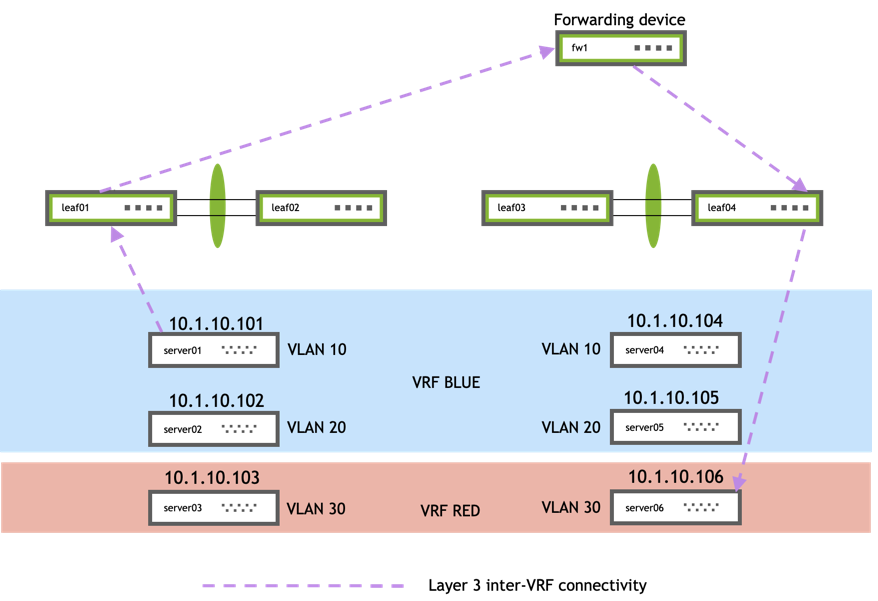
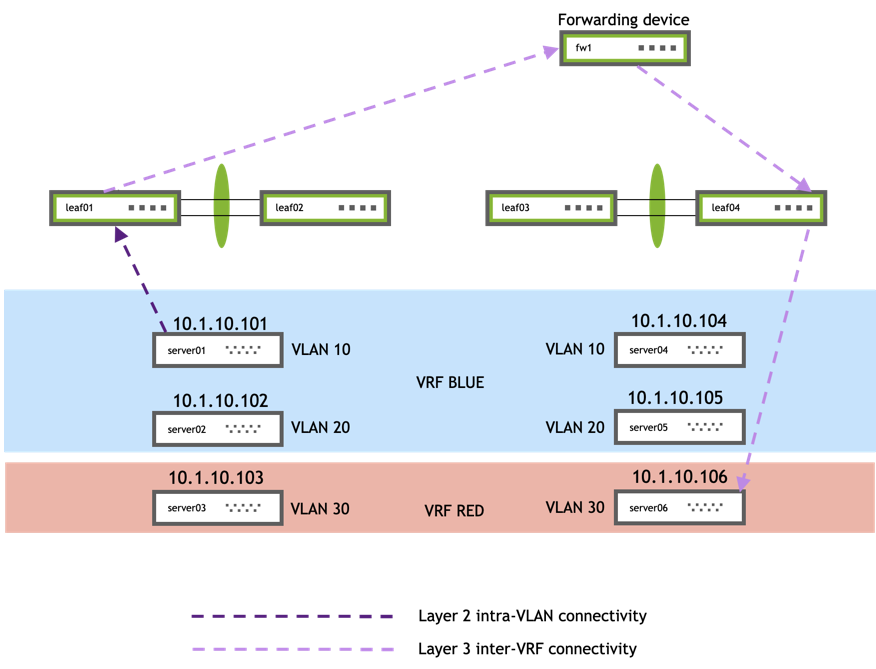
updates to images and descriptions

diff --git a/content/cumulus-linux-42/Network-Virtualization/Ethernet-Virtual-Private-Network-EVPN/Configuration-Examples.md b/content/cumulus-linux-42/Network-Virtualization/Ethernet-Virtual-Private-Network-EVPN/Configuration-Examples.md
@@ -1960,15 +1960,17 @@ The following example shows an EVPN symmetric routing configuration, where:
 - MLAG is configured between leaf01 and leaf02, leaf03 and leaf04, and border01 and border02
 - BGP unnumbered is in the underlay (configured on all leafs and spines)
 - VRF BLUE and VRF RED are configured on the leafs for traffic flow
-- server01 and server04 are in VLAN 10 in VRF BLUE
-- server02 and server05 are in VLAN 20 in VRF BLUE
-- server03 and server06 are on VLAN 30 in VRF RED
+   - server01 and server04 are in VLAN 10 in VRF BLUE
+   - server02 and server05 are in VLAN 20 in VRF BLUE
+   - server03 and server06 are on VLAN 30 in VRF RED
 
-The following image shows traffic flow between VRFs.
+   The following image shows traffic flow between VRFs:
 
-|     |     |     |
-| --- | --- | --- |
-| {{< img src="/images/cumulus-linux/EVPN-same-VLAN.png" width="700" >}} |{{< img src="/images/cumulus-linux/EVPN-different-VLAN.png" width="700" >}} | {{< img src="/images/cumulus-linux/EVPN-different-VRF.png" width="700" >}} |
+   |     |     |
+   | --- | --- |
+   | <img width=800/> {{< img src="/images/cumulus-linux/EVPN-same-VLAN.png" width="700" >}} | <br><br><br><br><br><br><ul><li>server01 and server04 are in the same VLAN and the same VRF so traffic is sent over layer 2</li></ul>|
+   | {{< img src="/images/cumulus-linux/EVPN-different-VLAN.png" width="800" >}} | <br><br><br><br><br><br><ul><li>server01 and server02 are in the same VRF but in different VLANs</li><br><li>Traffic is sent from server01 to the leafs over layer 2 but over layer 3 from the leafs to server02</li></ul> |
+   | {{< img src="/images/cumulus-linux/EVPN-different-VRF.png" width="800" >}} | <br><br><br><br><br><br><ul><li>server01 and server06 are in different VLANs and different VRFs. </li><br><li>Traffic from server01 is sent to the leafs over layer 2 but is sent over layer 3 from the leafs to server06 via a forwarding device</li></ul>|
 
 ### /etc/network/interfaces
 
